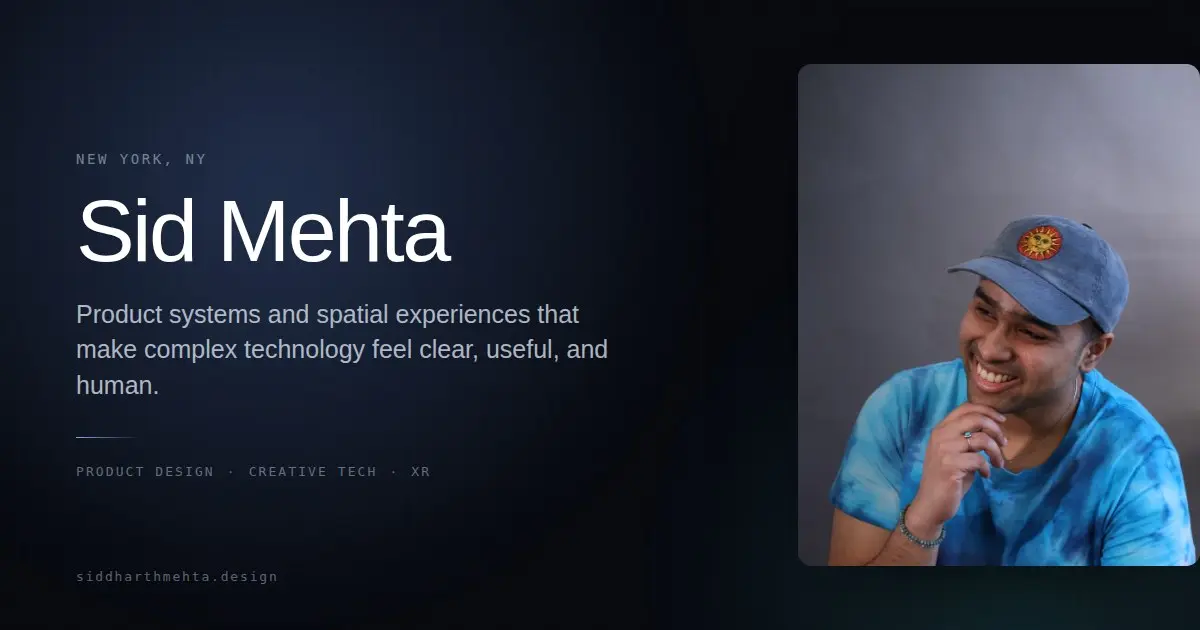
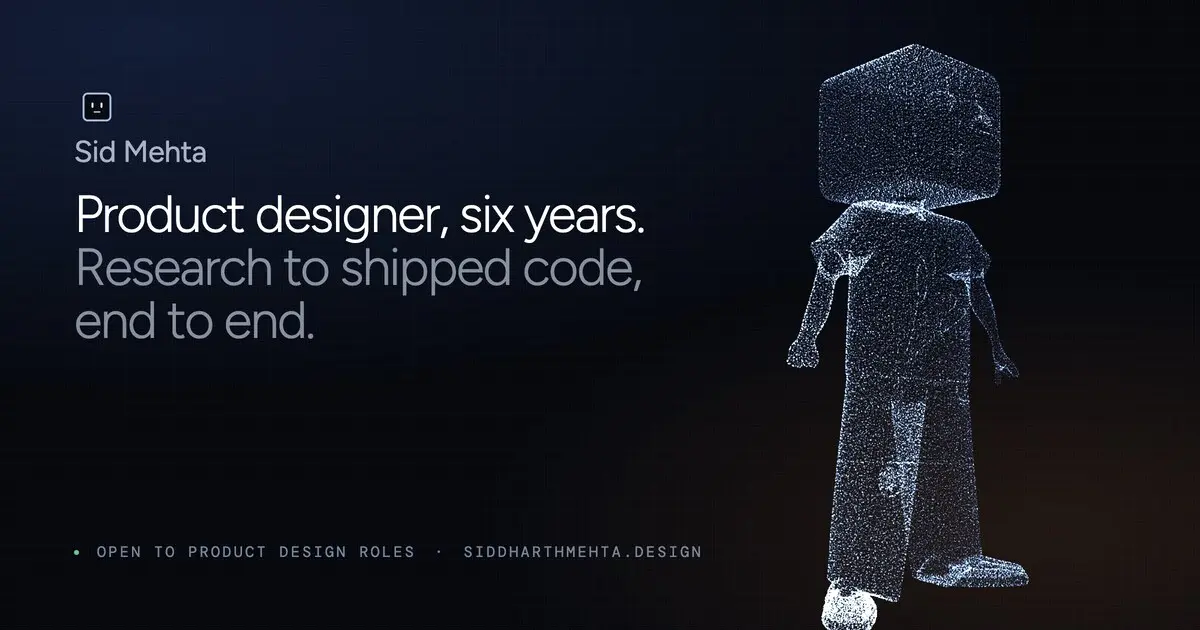
Deploying to gh-pages from @ Mehatey/portfolio_site@6e6c548773e03d98531eacab0c617ead0b7517c9 🚀

diff --git a/arcana/index.html b/arcana/index.html
@@ -1,1 +1,1 @@
-<!DOCTYPE html> <html lang="en"> <head> <meta http-equiv="Content-Type" content="text/html; charset=UTF-8"> <meta charset="UTF-8"> <meta name="viewport" content="width=device-width, initial-scale=1.0, viewport-fit=cover"> <meta name="theme-color" content="#f5ead8"> <meta name="view-transition" content="same-origin"> <title>Astraea · A daily tarot reading</title> <meta name="description" content="A personal daily Major Arcana reading shaped by your sun sign, the moon, your question, and the day you arrive."> <link rel="canonical" href="https://siddharthmehta.design/arcana/"> <meta property="og:title" content="Astraea · A daily tarot reading"> <meta property="og:description" content="A watercolor tarot ritual shaped by your birth date and the sky today."> <meta property="og:type" content="website"> <meta property="og:url" content="https://siddharthmehta.design/arcana/"> <meta property="og:image" content="https://siddharthmehta.design/assets/tarot/deck-back.webp"> <meta name="twitter:card" content="summary_large_image"> <link rel="icon" type="image/svg+xml" href="/favicon.svg"> <link rel="preconnect" href="https://fonts.googleapis.com"> <link rel="preconnect" href="https://fonts.gstatic.com" crossorigin> <link href="https://fonts.googleapis.com/css2?family=Caveat:wght@400..700&amp;family=Gloock&amp;family=Manrope:wght@300..700&amp;display=swap" rel="stylesheet"> <link rel="stylesheet" href="/assets/css/arcana.css"> </head> <body data-baseurl=""> <a class="skip-link" href="#main">Skip to the reading</a> <div class="paper-field" aria-hidden="true"></div> <div class="watercolor-orb watercolor-orb--one" aria-hidden="true"></div> <div class="watercolor-orb watercolor-orb--two" aria-hidden="true"></div> <canvas class="star-canvas" id="star-canvas" aria-hidden="true"></canvas> <header class="site-header"> <a class="wordmark" href="#welcome" aria-label="Astraea, return to welcome"> <svg viewbox="0 0 54 54" aria-hidden="true"> <circle cx="27" cy="27" r="17"></circle> <path d="M27 3v48M3 27h48M10 10l34 34M44 10 10 44"></path> <circle cx="27" cy="27" r="4"></circle> </svg> <span>Astraea</span> </a> <nav aria-label="Oracle navigation"> <button type="button" id="open-deck" aria-haspopup="dialog" aria-controls="deck-dialog">The 22 archetypes</button> <button class="sound-control" id="sound-control" type="button" aria-pressed="false"> <span class="sound-wave" aria-hidden="true"><i></i><i></i><i></i></span> <span class="sound-label">Music off</span> </button> </nav> </header> <main id="main"> <section class="welcome" id="welcome" aria-labelledby="welcome-title"> <div class="welcome-copy"> <p class="celestial-date"><span id="today-label">Today</span><i></i><span id="moon-label">Moon</span></p> <h1 id="welcome-title">A reading written in <em>water, stars,</em> and the moment you arrive.</h1> <p class="welcome-intro"> Share your birth date and a question. Astraea will read your sun sign against today’s sky, then draw three cards from the Major Arcana. </p> <p class="hand-note" aria-hidden="true">Nothing is fixed. Everything is a mirror.</p> </div> <form class="birth-form" id="birth-form"> <div class="form-intro"> <span class="form-number">01</span> <div> <h2>Begin with where you entered.</h2> <p>Your birth date shapes the lens, not the outcome.</p> </div> </div> <label class="field"> <span>What should I call you? <small>Optional</small></span> <input id="seeker-name" name="name" type="text" maxlength="40" autocomplete="given-name" placeholder="Your first name"> </label> <label class="field"> <span>Date of birth</span> <input id="birth-date" name="birthDate" type="date" required autocomplete="bday"> </label> <label class="field"> <span>What is moving through you? <small>Optional</small></span> <textarea id="question" name="question" maxlength="220" rows="3" placeholder="A relationship, a decision, a feeling you cannot name…"></textarea> <small class="field-count" id="question-count">0 / 220</small> </label> <div class="form-footer"> <p><span aria-hidden="true">◌</span> Your birth date stays in this moment. It is never saved or shared.</p> <button class="primary-action" type="submit"> <span>Open the circle</span> <svg viewbox="0 0 34 14" aria-hidden="true"><path d="M1 7h30M25 1l7 6-7 6"></path></svg> </button> </div> <p class="form-error" id="form-error" role="alert"></p> </form> <div class="welcome-cards" aria-hidden="true"> <div class="welcome-card welcome-card--back"></div> <div class="welcome-card welcome-card--face"><span>☼</span></div> <p>Major Arcana<br>No. 00—XXI</p> </div> </section> <section class="ritual" id="ritual" aria-labelledby="ritual-title" hidden> <div class="sky-profile"> <div class="sign-seal" id="sign-seal"><span id="sign-symbol">♈</span></div> <div> <p class="section-kicker">Your celestial weather</p> <h2 id="profile-heading">Your sun meets today’s sky.</h2> <p id="profile-copy"></p> </div> <dl> <div> <dt>Sun</dt> <dd id="profile-sign">—</dd> </div> <div> <dt>Season</dt> <dd id="profile-season">—</dd> </div> <div> <dt>Moon</dt> <dd id="profile-moon">—</dd> </div> </dl> </div> <div class="shuffle-stage"> <div class="shuffle-copy"> <p class="section-kicker">Your intention is held</p> <h2 id="ritual-title">Shuffle until the question feels quiet.</h2> <p id="ritual-question"></p> </div> <div class="shuffle-orbit" id="shuffle-orbit" aria-hidden="true"> <div class="orbit-line orbit-line--one"></div> <div class="orbit-line orbit-line--two"></div> <div class="shuffle-stack" id="shuffle-stack"></div> <div class="orbit-center"><span>✦</span></div> </div> <div class="shuffle-actions"> <p class="shuffle-status" id="shuffle-status" aria-live="polite">The deck is waiting.</p> <button class="primary-action primary-action--dark" id="shuffle-button" type="button"> <span>Shuffle the cards</span> <svg viewbox="0 0 34 14" aria-hidden="true"><path d="M1 7h30M25 1l7 6-7 6"></path></svg> </button> </div> </div> </section> <section class="reading" id="reading" aria-labelledby="reading-title" hidden> <div class="reading-heading"> <p class="section-kicker">Your three-card reflection</p> <h2 id="reading-title">Root. Mirror. Becoming.</h2> <p id="reading-personalization"></p> </div> <div class="spread" id="spread" aria-live="polite"></div> <article class="oracle-response" id="oracle-response" hidden> <div class="oracle-star" aria-hidden="true"><span>✦</span></div> <div class="oracle-copy"> <p class="section-kicker">Astraea’s synthesis</p> <h2 id="oracle-heading">What the cards are saying together</h2> <div class="oracle-text" id="oracle-text" aria-live="polite"></div> <div class="reflection-prompt"> <span>Carry this with you</span> <p id="reflection-prompt"></p> </div> </div> <div class="oracle-actions"> <button type="button" id="copy-reading">Copy my reading</button> <button type="button" id="new-reading">Begin again</button> </div> </article> </section> <section class="about-ritual" aria-labelledby="about-ritual-title"> <p class="section-kicker">How Astraea reads</p> <h2 id="about-ritual-title">The sky gives context.<br>The cards give language.<br><em>You give them meaning.</em> </h2> <p> Your daily draw is shaped by your sun sign, today’s solar season, the current moon phase, and the question you bring. Return tomorrow and the sky changes, so the reading changes with it. </p> <button type="button" id="open-deck-bottom">Meet all 22 archetypes <span aria-hidden="true">↗</span></button> </section> </main> <dialog class="deck-dialog" id="deck-dialog" aria-labelledby="deck-title"> <div class="deck-dialog-shell"> <header> <div> <p class="section-kicker">The Major Arcana</p> <h2 id="deck-title">Twenty-two doors.</h2> <p>Choose a card to hear its color and read its voice.</p> </div> <button class="dialog-close" id="close-deck" type="button" aria-label="Close the Major Arcana">Close</button> </header> <div class="deck-browser"> <div class="deck-grid" id="deck-grid"></div> <aside class="deck-detail" id="deck-detail"> <div class="deck-detail-art" id="deck-detail-art"><span id="deck-detail-glyph">✺</span></div> <p id="deck-detail-number">00 · Air</p> <h3 id="deck-detail-name">The Fool</h3> <p id="deck-detail-meaning">The first step, taken before certainty.</p> <button type="button" id="deck-detail-listen"><span aria-hidden="true">♪</span> Hear this card</button> </aside> </div> </div> </dialog> <div class="stage-wash" id="stage-wash" aria-hidden="true"> <span></span><span></span><span></span> </div> <div class="sr-only" id="announcer" aria-live="assertive"></div> <footer> <a class="footer-mark" href="#welcome">Astraea</a> <p>For reflection and creative guidance. Not medical, legal, or financial advice.</p> <button type="button" id="footer-sound">Turn the music on</button> </footer> <noscript> <div class="noscript">Astraea needs JavaScript to read the cards and play their music.</div> </noscript> <script src="/assets/js/arcana.js" defer></script> </body> </html>
+<!DOCTYPE html> <html lang="en"> <head> <meta http-equiv="Content-Type" content="text/html; charset=UTF-8"> <meta charset="UTF-8"> <meta name="viewport" content="width=device-width, initial-scale=1.0, viewport-fit=cover"> <meta name="theme-color" content="#f5ead8"> <meta name="view-transition" content="same-origin"> <title>Astraea · A daily tarot reading</title> <meta name="description" content="A personal daily Major Arcana reading shaped by your sun sign, the moon, your question, and the day you arrive."> <link rel="canonical" href="https://siddharthmehta.design/arcana/"> <meta property="og:title" content="Astraea · A daily tarot reading"> <meta property="og:description" content="A watercolor tarot ritual shaped by your birth date and the sky today."> <meta property="og:type" content="website"> <meta property="og:url" content="https://siddharthmehta.design/arcana/"> <meta property="og:image" content="https://siddharthmehta.design/assets/tarot/deck-back.webp"> <meta name="twitter:card" content="summary_large_image"> <link rel="icon" type="image/svg+xml" href="/favicon.svg"> <link rel="icon" href="/favicon.ico" sizes="any"> <link rel="preconnect" href="https://fonts.googleapis.com"> <link rel="preconnect" href="https://fonts.gstatic.com" crossorigin> <link href="https://fonts.googleapis.com/css2?family=Caveat:wght@400..700&amp;family=Gloock&amp;family=Manrope:wght@300..700&amp;display=swap" rel="stylesheet"> <link rel="stylesheet" href="/assets/css/arcana.css"> </head> <body data-baseurl=""> <a class="skip-link" href="#main">Skip to the reading</a> <div class="paper-field" aria-hidden="true"></div> <div class="watercolor-orb watercolor-orb--one" aria-hidden="true"></div> <div class="watercolor-orb watercolor-orb--two" aria-hidden="true"></div> <canvas class="star-canvas" id="star-canvas" aria-hidden="true"></canvas> <header class="site-header"> <a class="wordmark" href="#welcome" aria-label="Astraea, return to welcome"> <svg viewbox="0 0 54 54" aria-hidden="true"> <circle cx="27" cy="27" r="17"></circle> <path d="M27 3v48M3 27h48M10 10l34 34M44 10 10 44"></path> <circle cx="27" cy="27" r="4"></circle> </svg> <span>Astraea</span> </a> <nav aria-label="Oracle navigation"> <button type="button" id="open-deck" aria-haspopup="dialog" aria-controls="deck-dialog">The 22 archetypes</button> <button class="sound-control" id="sound-control" type="button" aria-pressed="false"> <span class="sound-wave" aria-hidden="true"><i></i><i></i><i></i></span> <span class="sound-label">Music off</span> </button> </nav> </header> <main id="main"> <section class="welcome" id="welcome" aria-labelledby="welcome-title"> <div class="welcome-copy"> <p class="celestial-date"><span id="today-label">Today</span><i></i><span id="moon-label">Moon</span></p> <h1 id="welcome-title">A reading written in <em>water, stars,</em> and the moment you arrive.</h1> <p class="welcome-intro"> Share your birth date and a question. Astraea will read your sun sign against today’s sky, then draw three cards from the Major Arcana. </p> <p class="hand-note" aria-hidden="true">Nothing is fixed. Everything is a mirror.</p> </div> <form class="birth-form" id="birth-form"> <div class="form-intro"> <span class="form-number">01</span> <div> <h2>Begin with where you entered.</h2> <p>Your birth date shapes the lens, not the outcome.</p> </div> </div> <label class="field"> <span>What should I call you? <small>Optional</small></span> <input id="seeker-name" name="name" type="text" maxlength="40" autocomplete="given-name" placeholder="Your first name"> </label> <label class="field"> <span>Date of birth</span> <input id="birth-date" name="birthDate" type="date" required autocomplete="bday"> </label> <label class="field"> <span>What is moving through you? <small>Optional</small></span> <textarea id="question" name="question" maxlength="220" rows="3" placeholder="A relationship, a decision, a feeling you cannot name…"></textarea> <small class="field-count" id="question-count">0 / 220</small> </label> <div class="form-footer"> <p><span aria-hidden="true">◌</span> Your birth date stays in this moment. It is never saved or shared.</p> <button class="primary-action" type="submit"> <span>Open the circle</span> <svg viewbox="0 0 34 14" aria-hidden="true"><path d="M1 7h30M25 1l7 6-7 6"></path></svg> </button> </div> <p class="form-error" id="form-error" role="alert"></p> </form> <div class="welcome-cards" aria-hidden="true"> <div class="welcome-card welcome-card--back"></div> <div class="welcome-card welcome-card--face"><span>☼</span></div> <p>Major Arcana<br>No. 00—XXI</p> </div> </section> <section class="ritual" id="ritual" aria-labelledby="ritual-title" hidden> <div class="sky-profile"> <div class="sign-seal" id="sign-seal"><span id="sign-symbol">♈</span></div> <div> <p class="section-kicker">Your celestial weather</p> <h2 id="profile-heading">Your sun meets today’s sky.</h2> <p id="profile-copy"></p> </div> <dl> <div> <dt>Sun</dt> <dd id="profile-sign">—</dd> </div> <div> <dt>Season</dt> <dd id="profile-season">—</dd> </div> <div> <dt>Moon</dt> <dd id="profile-moon">—</dd> </div> </dl> </div> <div class="shuffle-stage"> <div class="shuffle-copy"> <p class="section-kicker">Your intention is held</p> <h2 id="ritual-title">Shuffle until the question feels quiet.</h2> <p id="ritual-question"></p> </div> <div class="shuffle-orbit" id="shuffle-orbit" aria-hidden="true"> <div class="orbit-line orbit-line--one"></div> <div class="orbit-line orbit-line--two"></div> <div class="shuffle-stack" id="shuffle-stack"></div> <div class="orbit-center"><span>✦</span></div> </div> <div class="shuffle-actions"> <p class="shuffle-status" id="shuffle-status" aria-live="polite">The deck is waiting.</p> <button class="primary-action primary-action--dark" id="shuffle-button" type="button"> <span>Shuffle the cards</span> <svg viewbox="0 0 34 14" aria-hidden="true"><path d="M1 7h30M25 1l7 6-7 6"></path></svg> </button> </div> </div> </section> <section class="reading" id="reading" aria-labelledby="reading-title" hidden> <div class="reading-heading"> <p class="section-kicker">Your three-card reflection</p> <h2 id="reading-title">Root. Mirror. Becoming.</h2> <p id="reading-personalization"></p> </div> <div class="spread" id="spread" aria-live="polite"></div> <article class="oracle-response" id="oracle-response" hidden> <div class="oracle-star" aria-hidden="true"><span>✦</span></div> <div class="oracle-copy"> <p class="section-kicker">Astraea’s synthesis</p> <h2 id="oracle-heading">What the cards are saying together</h2> <div class="oracle-text" id="oracle-text" aria-live="polite"></div> <div class="reflection-prompt"> <span>Carry this with you</span> <p id="reflection-prompt"></p> </div> </div> <div class="oracle-actions"> <button type="button" id="copy-reading">Copy my reading</button> <button type="button" id="new-reading">Begin again</button> </div> </article> </section> <section class="about-ritual" aria-labelledby="about-ritual-title"> <p class="section-kicker">How Astraea reads</p> <h2 id="about-ritual-title">The sky gives context.<br>The cards give language.<br><em>You give them meaning.</em> </h2> <p> Your daily draw is shaped by your sun sign, today’s solar season, the current moon phase, and the question you bring. Return tomorrow and the sky changes, so the reading changes with it. </p> <button type="button" id="open-deck-bottom">Meet all 22 archetypes <span aria-hidden="true">↗</span></button> </section> </main> <dialog class="deck-dialog" id="deck-dialog" aria-labelledby="deck-title"> <div class="deck-dialog-shell"> <header> <div> <p class="section-kicker">The Major Arcana</p> <h2 id="deck-title">Twenty-two doors.</h2> <p>Choose a card to hear its color and read its voice.</p> </div> <button class="dialog-close" id="close-deck" type="button" aria-label="Close the Major Arcana">Close</button> </header> <div class="deck-browser"> <div class="deck-grid" id="deck-grid"></div> <aside class="deck-detail" id="deck-detail"> <div class="deck-detail-art" id="deck-detail-art"><span id="deck-detail-glyph">✺</span></div> <p id="deck-detail-number">00 · Air</p> <h3 id="deck-detail-name">The Fool</h3> <p id="deck-detail-meaning">The first step, taken before certainty.</p> <button type="button" id="deck-detail-listen"><span aria-hidden="true">♪</span> Hear this card</button> </aside> </div> </div> </dialog> <div class="stage-wash" id="stage-wash" aria-hidden="true"> <span></span><span></span><span></span> </div> <div class="sr-only" id="announcer" aria-live="assertive"></div> <footer> <a class="footer-mark" href="#welcome">Astraea</a> <p>For reflection and creative guidance. Not medical, legal, or financial advice.</p> <button type="button" id="footer-sound">Turn the music on</button> </footer> <noscript> <div class="noscript">Astraea needs JavaScript to read the cards and play their music.</div> </noscript> <script src="/assets/js/arcana.js" defer></script> </body> </html>

diff --git a/og/index.html b/og/index.html
@@ -1,0 +1,126 @@
+<!DOCTYPE html> <html lang="en"> <head> <meta http-equiv="Content-Type" content="text/html; charset=UTF-8"> <meta charset="utf-8"> <meta name="robots" content="noindex, nofollow"> <title>OG card source</title> <link rel="preconnect" href="https://fonts.googleapis.com"> <link rel="preconnect" href="https://fonts.gstatic.com" crossorigin> <link rel="stylesheet" href="https://fonts.googleapis.com/css2?family=DM+Mono:wght@300;400;500&amp;family=Figtree:ital,wght@0,300..900;1,300..900&amp;display=swap"> <style>
+      * {
+        margin: 0;
+        padding: 0;
+        box-sizing: border-box;
+      }
+      html,
+      body {
+        width: 1200px;
+        height: 630px;
+        overflow: hidden;
+        background: #05070d;
+      }
+      .card {
+        position: relative;
+        width: 1200px;
+        height: 630px;
+        background:
+          radial-gradient(120% 90% at 12% 6%, rgba(28, 48, 96, 0.5), transparent 62%),
+          radial-gradient(80% 70% at 88% 84%, rgba(88, 52, 24, 0.34), transparent 60%), #05070d;
+        font-family: "Figtree", ui-sans-serif, system-ui, sans-serif;
+        color: #eef3fa;
+        overflow: hidden;
+      }
+      /* The figure sits right and bleeds off the bottom, the way he does in
+         the hero — a portrait fully inside a box is a stock photo. */
+      .fig {
+        position: absolute;
+        right: -40px;
+        /* Bleeds off the bottom on purpose — a figure fully inside the frame
+           is a stock photo — but not through the middle of a shoe. */
+        bottom: -52px;
+        width: 640px;
+        height: 700px;
+      }
+      .fig canvas {
+        display: block;
+        width: 100%;
+        height: 100%;
+      }
+      .copy {
+        position: absolute;
+        left: 74px;
+        top: 84px;
+        /* Wide enough that "Product designer, six years." holds one line. It
+           was breaking after "six", which puts the orphan on the line that
+           carries the claim. */
+        width: 660px;
+      }
+      .mark {
+        display: block;
+        width: 46px;
+        height: 46px;
+        margin-bottom: 40px;
+        color: rgba(186, 211, 244, 0.9);
+      }
+      .name {
+        font-size: 30px;
+        font-weight: 400;
+        letter-spacing: -0.01em;
+        color: rgba(226, 238, 255, 0.72);
+        margin-bottom: 18px;
+      }
+      .line {
+        font-size: 52px;
+        font-weight: 300;
+        line-height: 1.02;
+        letter-spacing: -0.035em;
+        color: #fff;
+      }
+      .line span {
+        color: rgba(226, 238, 255, 0.58);
+      }
+      .foot {
+        position: absolute;
+        left: 74px;
+        bottom: 68px;
+        display: flex;
+        align-items: center;
+        gap: 18px;
+        font-family: "DM Mono", ui-monospace, monospace;
+        font-size: 15px;
+        letter-spacing: 0.16em;
+        text-transform: uppercase;
+        color: rgba(186, 211, 244, 0.62);
+      }
+      .dot {
+        width: 5px;
+        height: 5px;
+        border-radius: 50%;
+        background: rgba(120, 210, 150, 0.9);
+      }
+      .grain {
+        position: absolute;
+        inset: 0;
+        opacity: 0.5;
+        background-image: radial-gradient(rgba(255, 255, 255, 0.045) 1px, transparent 1px);
+        background-size: 3px 3px;
+      }
+    </style> </head> <body> <div class="card"> <div class="fig"> <canvas id="cg-gl" data-base=""></canvas> </div> <div class="grain"></div> <div class="copy"> <svg class="logo-cube" xmlns="http://www.w3.org/2000/svg" viewbox="0 0 36 36" aria-hidden="true" focusable="false"> <rect class="cube-face cube-top" x="7.5" y="7.5" width="21" height="21" rx="3.2"></rect> <rect class="cube-face cube-right" x="7.5" y="7.5" width="21" height="21" rx="3.2"></rect> <rect class="cube-front" x="7.5" y="7.5" width="21" height="21" rx="3.2"></rect> <g style="transform: translate(calc(var(--eye-x, 0) * 0.9px), calc(var(--eye-y, 0) * 0.7px))"> <rect class="logo-eye" x="13.7" y="14.56" width="1.56" height="4.1" rx="0.78"></rect> <rect class="logo-eye" x="20.75" y="14.56" width="1.56" height="4.1" rx="0.78"></rect> </g> <rect class="logo-mouth" x="15.38" y="21.44" width="5.25" height="0.9" rx="0.45"></rect> <path class="logo-scan" d="M8.5 18 H27.5"></path> </svg> <div class="name">Sid Mehta</div> <div class="line">Product designer, six years.<br><span>Research to shipped code, end to end.</span> </div> </div> <div class="foot"> <span class="dot"></span> <span>Open to product design roles</span> <span>·</span> <span>siddharthmehta.design</span> </div> </div> <script>
+      /* The renderer expects a .cg-stage parent and reads --hero-p and the
+         field phase, neither of which exist here. It guards on both, so the
+         only thing it needs is the canvas and a sized parent. */
+      document.querySelector(".fig").classList.add("cg-stage");
+    </script> <script src="/assets/js/cube-guy.js"></script> <style>
+      .logo-cube {
+        width: 46px;
+        height: 46px;
+        color: rgba(186, 211, 244, 0.9);
+      }
+      .logo-cube .cube-face {
+        opacity: 0;
+      }
+      .logo-cube .cube-front {
+        fill: #070b13;
+        stroke: currentColor;
+        stroke-width: 1.5;
+      }
+      .logo-cube .logo-eye,
+      .logo-cube .logo-mouth {
+        fill: #e7f1ff;
+      }
+      .logo-cube .logo-scan {
+        opacity: 0;
+      }
+    </style> </body> </html>

diff --git a/aananda/index.html b/aananda/index.html
@@ -1,4 +1,4 @@
-<!DOCTYPE html> <html lang="en"> <head> <meta http-equiv="Content-Type" content="text/html; charset=UTF-8"> <meta charset="UTF-8"> <link rel="icon" type="image/svg+xml" href="/favicon.svg"> <meta name="viewport" content="width=device-width, initial-scale=1.0"> <meta name="view-transition" content="same-origin"> <script>
+<!DOCTYPE html> <html lang="en"> <head> <meta http-equiv="Content-Type" content="text/html; charset=UTF-8"> <meta charset="UTF-8"> <link rel="icon" type="image/svg+xml" href="/favicon.svg"> <link rel="icon" href="/favicon.ico" sizes="any"> <meta name="viewport" content="width=device-width, initial-scale=1.0"> <meta name="view-transition" content="same-origin"> <script>
   // Theme + cursor bootstrap — runs in <head> before any body paint to avoid flash of wrong theme
   // and to gate cursor: none rules. Saved theme wins; otherwise honor OS preference.
   (function () {

diff --git a/about/index.html b/about/index.html
@@ -1,4 +1,4 @@
-<!DOCTYPE html> <html lang="en"> <head> <meta http-equiv="Content-Type" content="text/html; charset=UTF-8"> <meta charset="UTF-8"> <link rel="icon" type="image/svg+xml" href="/favicon.svg"> <meta name="viewport" content="width=device-width, initial-scale=1.0"> <meta name="view-transition" content="same-origin"> <script>
+<!DOCTYPE html> <html lang="en"> <head> <meta http-equiv="Content-Type" content="text/html; charset=UTF-8"> <meta charset="UTF-8"> <link rel="icon" type="image/svg+xml" href="/favicon.svg"> <link rel="icon" href="/favicon.ico" sizes="any"> <meta name="viewport" content="width=device-width, initial-scale=1.0"> <meta name="view-transition" content="same-origin"> <script>
   // Theme + cursor bootstrap — runs in <head> before any body paint to avoid flash of wrong theme
   // and to gate cursor: none rules. Saved theme wins; otherwise honor OS preference.
   (function () {

diff --git a/ai-prototypes/index.html b/ai-prototypes/index.html
@@ -1,4 +1,4 @@
-<!DOCTYPE html> <html lang="en"> <head> <meta http-equiv="Content-Type" content="text/html; charset=UTF-8"> <meta charset="UTF-8"> <link rel="icon" type="image/svg+xml" href="/favicon.svg"> <meta name="viewport" content="width=device-width, initial-scale=1.0"> <meta name="view-transition" content="same-origin"> <script>
+<!DOCTYPE html> <html lang="en"> <head> <meta http-equiv="Content-Type" content="text/html; charset=UTF-8"> <meta charset="UTF-8"> <link rel="icon" type="image/svg+xml" href="/favicon.svg"> <link rel="icon" href="/favicon.ico" sizes="any"> <meta name="viewport" content="width=device-width, initial-scale=1.0"> <meta name="view-transition" content="same-origin"> <script>
   // Theme + cursor bootstrap — runs in <head> before any body paint to avoid flash of wrong theme
   // and to gate cursor: none rules. Saved theme wins; otherwise honor OS preference.
   (function () {

diff --git a/ai-self/index.html b/ai-self/index.html
@@ -1,4 +1,4 @@
-<!DOCTYPE html> <html lang="en"> <head> <meta http-equiv="Content-Type" content="text/html; charset=UTF-8"> <meta charset="UTF-8"> <link rel="icon" type="image/svg+xml" href="/favicon.svg"> <meta name="viewport" content="width=device-width, initial-scale=1.0"> <meta name="view-transition" content="same-origin"> <script>
+<!DOCTYPE html> <html lang="en"> <head> <meta http-equiv="Content-Type" content="text/html; charset=UTF-8"> <meta charset="UTF-8"> <link rel="icon" type="image/svg+xml" href="/favicon.svg"> <link rel="icon" href="/favicon.ico" sizes="any"> <meta name="viewport" content="width=device-width, initial-scale=1.0"> <meta name="view-transition" content="same-origin"> <script>
   // Theme + cursor bootstrap — runs in <head> before any body paint to avoid flash of wrong theme
   // and to gate cursor: none rules. Saved theme wins; otherwise honor OS preference.
   (function () {

diff --git a/alpha-stockathon/index.html b/alpha-stockathon/index.html
@@ -1,4 +1,4 @@
-<!DOCTYPE html> <html lang="en"> <head> <meta http-equiv="Content-Type" content="text/html; charset=UTF-8"> <meta charset="UTF-8"> <link rel="icon" type="image/svg+xml" href="/favicon.svg"> <meta name="viewport" content="width=device-width, initial-scale=1.0"> <meta name="view-transition" content="same-origin"> <script>
+<!DOCTYPE html> <html lang="en"> <head> <meta http-equiv="Content-Type" content="text/html; charset=UTF-8"> <meta charset="UTF-8"> <link rel="icon" type="image/svg+xml" href="/favicon.svg"> <link rel="icon" href="/favicon.ico" sizes="any"> <meta name="viewport" content="width=device-width, initial-scale=1.0"> <meta name="view-transition" content="same-origin"> <script>
   // Theme + cursor bootstrap — runs in <head> before any body paint to avoid flash of wrong theme
   // and to gate cursor: none rules. Saved theme wins; otherwise honor OS preference.
   (function () {

diff --git a/b-plus-b/index.html b/b-plus-b/index.html
@@ -1,4 +1,4 @@
-<!DOCTYPE html> <html lang="en"> <head> <meta http-equiv="Content-Type" content="text/html; charset=UTF-8"> <meta charset="UTF-8"> <link rel="icon" type="image/svg+xml" href="/favicon.svg"> <meta name="viewport" content="width=device-width, initial-scale=1.0"> <meta name="view-transition" content="same-origin"> <script>
+<!DOCTYPE html> <html lang="en"> <head> <meta http-equiv="Content-Type" content="text/html; charset=UTF-8"> <meta charset="UTF-8"> <link rel="icon" type="image/svg+xml" href="/favicon.svg"> <link rel="icon" href="/favicon.ico" sizes="any"> <meta name="viewport" content="width=device-width, initial-scale=1.0"> <meta name="view-transition" content="same-origin"> <script>
   // Theme + cursor bootstrap — runs in <head> before any body paint to avoid flash of wrong theme
   // and to gate cursor: none rules. Saved theme wins; otherwise honor OS preference.
   (function () {

diff --git a/bloom/index.html b/bloom/index.html
@@ -1,4 +1,4 @@
-<!DOCTYPE html> <html lang="en"> <head> <meta http-equiv="Content-Type" content="text/html; charset=UTF-8"> <meta charset="UTF-8"> <link rel="icon" type="image/svg+xml" href="/favicon.svg"> <meta name="viewport" content="width=device-width, initial-scale=1.0"> <meta name="view-transition" content="same-origin"> <script>
+<!DOCTYPE html> <html lang="en"> <head> <meta http-equiv="Content-Type" content="text/html; charset=UTF-8"> <meta charset="UTF-8"> <link rel="icon" type="image/svg+xml" href="/favicon.svg"> <link rel="icon" href="/favicon.ico" sizes="any"> <meta name="viewport" content="width=device-width, initial-scale=1.0"> <meta name="view-transition" content="same-origin"> <script>
   // Theme + cursor bootstrap — runs in <head> before any body paint to avoid flash of wrong theme
   // and to gate cursor: none rules. Saved theme wins; otherwise honor OS preference.
   (function () {

diff --git a/contact/index.html b/contact/index.html
@@ -1,4 +1,4 @@
-<!DOCTYPE html> <html lang="en"> <head> <meta http-equiv="Content-Type" content="text/html; charset=UTF-8"> <meta charset="UTF-8"> <link rel="icon" type="image/svg+xml" href="/favicon.svg"> <meta name="viewport" content="width=device-width, initial-scale=1.0"> <meta name="view-transition" content="same-origin"> <script>
+<!DOCTYPE html> <html lang="en"> <head> <meta http-equiv="Content-Type" content="text/html; charset=UTF-8"> <meta charset="UTF-8"> <link rel="icon" type="image/svg+xml" href="/favicon.svg"> <link rel="icon" href="/favicon.ico" sizes="any"> <meta name="viewport" content="width=device-width, initial-scale=1.0"> <meta name="view-transition" content="same-origin"> <script>
   // Theme + cursor bootstrap — runs in <head> before any body paint to avoid flash of wrong theme
   // and to gate cursor: none rules. Saved theme wins; otherwise honor OS preference.
   (function () {

diff --git a/cube-guy/index.html b/cube-guy/index.html
@@ -1,4 +1,4 @@
-<!DOCTYPE html> <html lang="en"> <head> <meta http-equiv="Content-Type" content="text/html; charset=UTF-8"> <meta charset="UTF-8"> <link rel="icon" type="image/svg+xml" href="/favicon.svg"> <meta name="viewport" content="width=device-width, initial-scale=1.0"> <meta name="view-transition" content="same-origin"> <script>
+<!DOCTYPE html> <html lang="en"> <head> <meta http-equiv="Content-Type" content="text/html; charset=UTF-8"> <meta charset="UTF-8"> <link rel="icon" type="image/svg+xml" href="/favicon.svg"> <link rel="icon" href="/favicon.ico" sizes="any"> <meta name="viewport" content="width=device-width, initial-scale=1.0"> <meta name="view-transition" content="same-origin"> <script>
   // Theme + cursor bootstrap — runs in <head> before any body paint to avoid flash of wrong theme
   // and to gate cursor: none rules. Saved theme wins; otherwise honor OS preference.
   (function () {

diff --git a/encoded/index.html b/encoded/index.html
@@ -1,4 +1,4 @@
-<!DOCTYPE html> <html lang="en"> <head> <meta http-equiv="Content-Type" content="text/html; charset=UTF-8"> <meta charset="UTF-8"> <link rel="icon" type="image/svg+xml" href="/favicon.svg"> <meta name="viewport" content="width=device-width, initial-scale=1.0"> <meta name="view-transition" content="same-origin"> <script>
+<!DOCTYPE html> <html lang="en"> <head> <meta http-equiv="Content-Type" content="text/html; charset=UTF-8"> <meta charset="UTF-8"> <link rel="icon" type="image/svg+xml" href="/favicon.svg"> <link rel="icon" href="/favicon.ico" sizes="any"> <meta name="viewport" content="width=device-width, initial-scale=1.0"> <meta name="view-transition" content="same-origin"> <script>
   // Theme + cursor bootstrap — runs in <head> before any body paint to avoid flash of wrong theme
   // and to gate cursor: none rules. Saved theme wins; otherwise honor OS preference.
   (function () {
